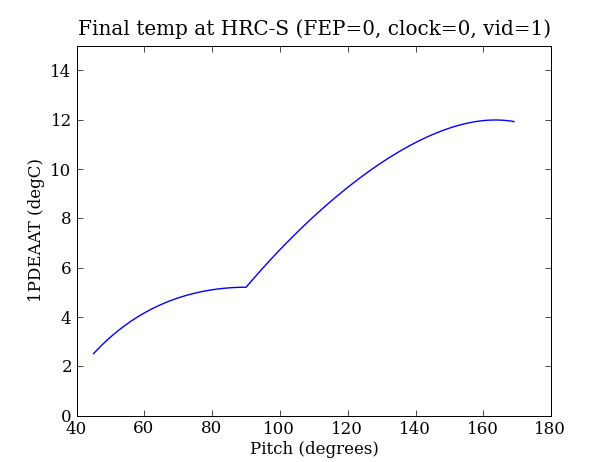
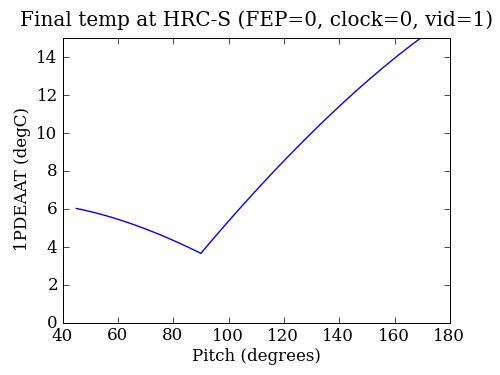
Changes in code (mostly about VERSION handling) and model_par values for 0.02 release

diff --git a/predict/psmc_check.py b/predict/psmc_check.py
@@ -5,46 +5,9 @@
 psmc_check
 ========================
 
-Overview
------------
 This code generates backstop load review outputs for checking the ACIS
 PSMC temperatures 1PIN1AT and 1PDEAAT.  It also generates PSMC model validation
 plots comparing predicted values to telemetry for the previous three weeks.
-
-Command line options
----------------------
-===================== ====================================== ===================
-Option                Description                            Default           
-===================== ====================================== ===================
--h, --help            show this help message and exit                           
---outdir=OUTDIR       Output directory                       out         
---oflsdir=OFLSDIR     Load products OFLS directory           None               
---power=POWER         Starting PSMC power (watts)            From telemetry     
---simpos=SIMPOS       Starting SIM-Z position (steps)        From telemetry     
---pitch=PITCH         Starting pitch (deg)                   From telemetry     
---T_dea=T_DEA         Starting 1pdeaat temperature (degC)    From telemetry     
---T_pin=T_PIN         Starting 1pin1at temperature (degC)    From telemetry     
---dt=DT               Time step for model evaluation (sec)   32.8               
---days=DAYS           Days of validation data (days)         21                 
---traceback=TRACEBACK Enable tracebacks                      True
---verbose=VERBOSE     Verbosity (0=quiet, 1=normal, 2=debug) 1 (normal)
-===================== ====================================== ===================
-
-The model starting parameters (temperature and spacecraft state) can be
-specified in one of two ways:
-
- - Provide all of the ``power``, ``simpos``, ``pitch``, ``T_dea``, and ``T_pin``
-   command line options corresponding to the expected state at the
-   load start time.  This may be necessary in the event of complex replan
-   situations where the second option fails to capture the correct starting
-   state.  In this case the ``cmd_states`` table is not used.
-
- - Provide none of the above command line options.  In this case the tool
-   will propagate forward from a 5-minute average of the last available
-   telemetry using the ``cmd_states`` table.  This table contains expected
-   commanding from the approved command loads in the operations database.  This
-   is the default usage.
-
 """
 
 import sys
@@ -139,9 +102,13 @@ def main(opt):
                 dea_limit=YELLOW['dea'] - MARGIN['dea'],
                 pin_limit=YELLOW['pin'] - MARGIN['pin'],
                 )
+    versionfile = os.path.join(os.path.dirname(__file__), 'VERSION')
     logging.info('#####################################################################')
     logging.info('# psmc_check.py run at %s by %s' % (proc['run_time'], proc['run_user']))
+    logging.info('# psmc_check version = ' + open(versionfile).read().strip())
+    logging.info('# characteristics version = ' + characteristics.VERSION)
     logging.info('#####################################################################\n')
+
     logging.info('Command line options:\n%s\n' % pformat(opt.__dict__))
 
     # Connect to database (NEED TO USE aca_read)

diff --git a/predict/characteristics.py b/predict/characteristics.py
@@ -1,3 +1,5 @@
+VERSION = '0.02'
+
 # PSMC average power for each state (fep_count, vid_board, clocking)
 # [fep_count, vid_board, clocking, power_avg]
 psmc_power = ((0, 0, 0, 15.0),
@@ -34,20 +36,19 @@ T_dea_margin = 4.5
 T_pin_margin = 4.5                 
 
 # Based on levmar fit of both 1pdeaat and 1pin1at
-# over the range 2009-01-01 - 2009-04-01
-model_par = dict(acis150  =      29.0302,
-                 acis50   =      56.0669,
-                 acis90   =      29.7084,
-                 c1       =      93.5736,
-                 c2       =      12.9992,
-                 hrci150 =  35.703,
-                 hrci50  =  42.717,
-                 hrci90  =  29.420,
-                 hrcs150 =  39.351,
-                 hrcs50  =  33.167,
-                 hrcs90  =  31.769,
-                 u01      =      5.64142,
-                 u01quad  =     -1.09691,
-                 u12      =      8.29004)
-
-
+# for 180 days before 2009:151:23:58:53.816
+model_par = dict(acis150 =  28.948,
+                 acis50  =  55.302,
+                 acis90  =  27.870,
+                 c1      =  97.303,
+                 c2      =  12.999,
+                 hrci150 =  37.773,
+                 hrci50  =  40.637,
+                 hrci90  =  27.804,
+                 hrcs150 =  40.054,
+                 hrcs50  =  34.032,
+                 hrcs90  =  30.542,
+                 u01     =   5.404,
+                 u01quad =  -0.438,
+                 u12     =   8.404,
+                )

diff --git a/predict/scs107_settling.py b/predict/scs107_settling.py
@@ -1,9 +1,11 @@
+#!/usr/bin/env python
 import numpy as np
 import twodof
-import characteristics as char
+import characteristics
+from pylab import *
 
 simz_hrcs = -99616
-power = dict((x[0:3], x[3]) for x in char.psmc_power)
+power = dict((x[0:3], x[3]) for x in characteristics.psmc_power)
 cols = 'tstart  tstop  power  pitch  simpos'.split()
 
 pitchs = range(45, 170, 1)
@@ -20,14 +22,16 @@ for pitch in pitchs:
     times = np.arange(states['tstart'][0], states['tstop'][-1], 10000.)
 
     T_pin, T_dea = twodof.calc_twodof_model(states, pin0, dea0, times,
-                                            par=char.model_par, dt=10000.)
+                                            par=characteristics.model_par,
+                                            dt=10000.)
     settle_temps.append(T_dea[-1])
                   
-figure(1, figsize=(6, 4.5))
+figure(1, figsize=(5, 3.75))
 clf()
 plot(pitchs, settle_temps)
 ylim(0, 15)
 ylabel('1PDEAAT (degC)')
 xlabel('Pitch (degrees)')
 title('Final temp at HRC-S (FEP=0, clock=0, vid=1)')
+subplots_adjust(bottom=0.14)
 savefig('scs107_settling.png')       

diff --git a/predict/docs/conf.py b/predict/docs/conf.py
@@ -45,9 +45,9 @@ copyright = u'2009, Tom Aldcroft'
 # built documents.
 #
 # The short X.Y version.
-version = '0.01'
+version = open('../VERSION').read().strip()
 # The full version, including alpha/beta/rc tags.
-release = '0.01'
+release = version
 
 # The language for content autogenerated by Sphinx. Refer to documentation
 # for a list of supported languages.

diff --git a/predict/docs/index.rst b/predict/docs/index.rst
@@ -113,19 +113,22 @@ Update procedure
   for the ACIS time interval (typically 180 days) instead of the HRC
   interval (typically 360 days).
 
-- Update the model_par definition in characteristics.py.
+- Update the model_par definition from screen output or ``psmc_calibrate.log`` 
+  and update ``VERSION`` in characteristics.py.
 
 - Update ``VERSION`` in ``Makefile``.
 
 - Test the new characteristics file by running::
 
-    /proj/sot/ska/bin/psmc_check --oflsdir <recent_ofls_dir> --outdir out_release
-    ./psmc_check.py --oflsdir <recent_ofls_dir> --outdir out_pre
+    /proj/sot/ska/bin/psmc_check --oflsdir <latest_ofls_dir> --outdir out_release
+    ./psmc_check.py --oflsdir <latest_ofls_dir> --outdir out_pre
+    ./scs107_settling.py
 
   Ensure that results are sensible and that the ``VERSION`` matches expectation.
 
-- Commit the changes::
+- Examine diffs then commit the changes::
 
+    svn diff --diff-cmd tkdiff
     svn commit -m "Update model calibration with data through <stopdate>: version <VERSION>"
 
 - Obtain review approval at the load review, install new files, and test::
@@ -133,7 +136,7 @@ Update procedure
     make docs
     make dist
     make install
-    /proj/sot/ska/bin/psmc_check --oflsdir <recent_ofls_dir> --outdir out_post
+    /proj/sot/ska/bin/psmc_check --oflsdir <latest_ofls_dir> --outdir out_post
 
   Make sure that ``out_post`` and ``out_pre`` results are identical.
 
